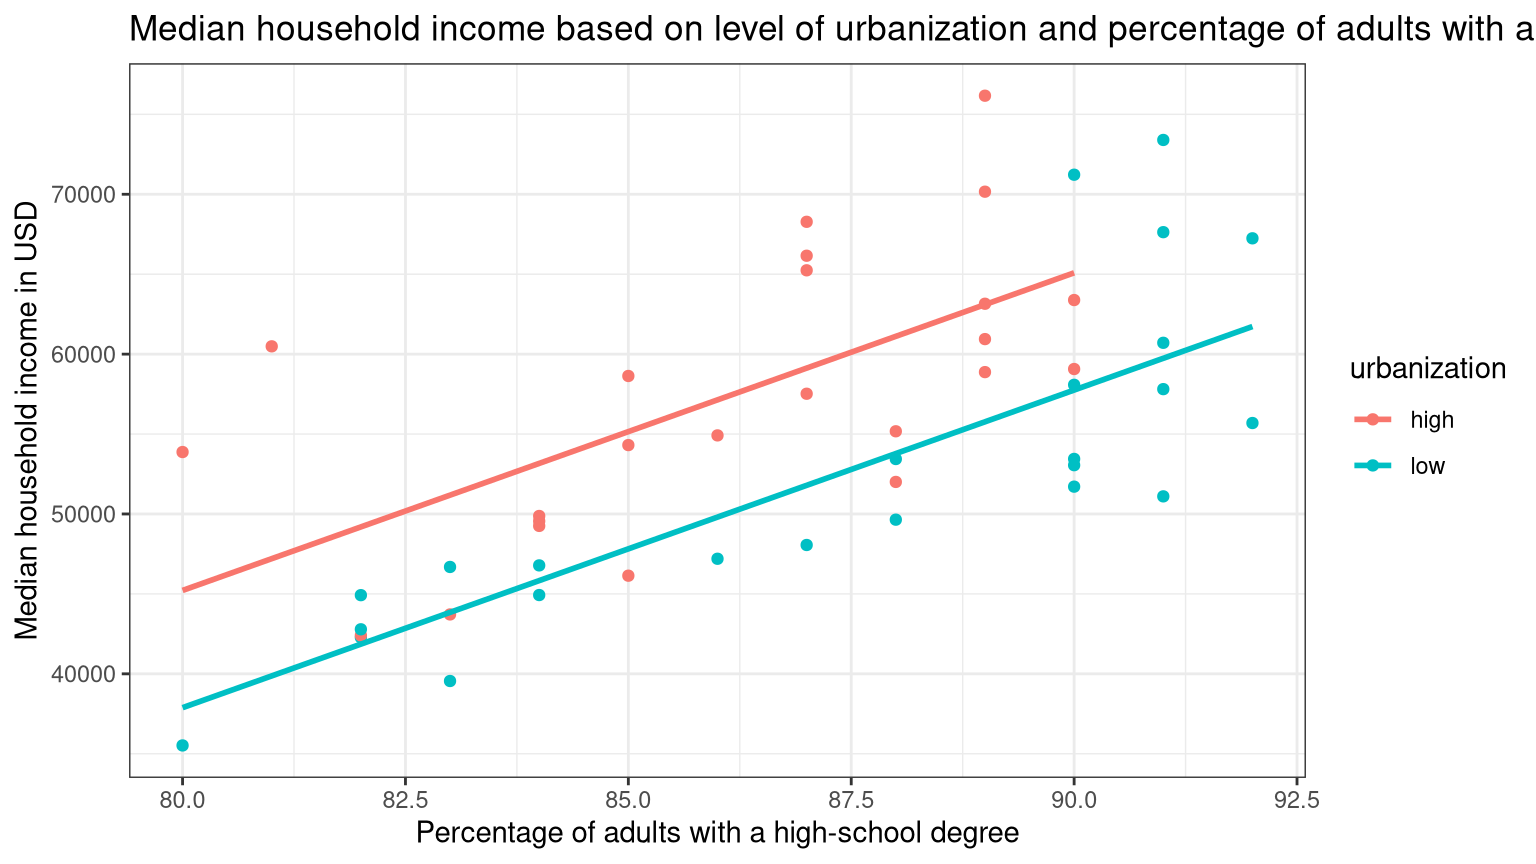
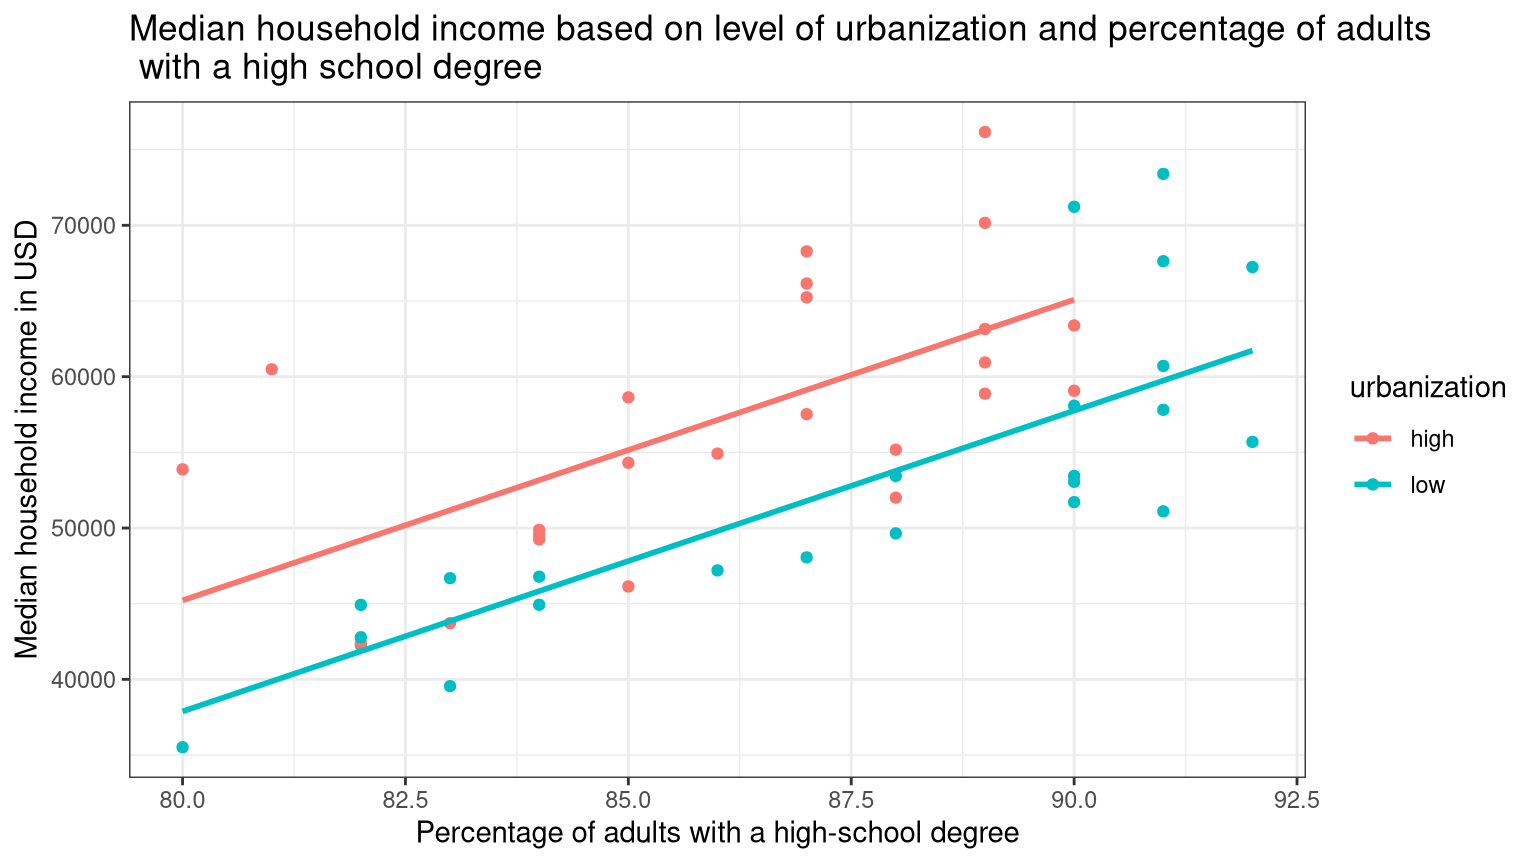
09-20 assignment completed

diff --git a/PS06_source.html b/PS06_source.html
@@ -135,7 +135,7 @@ window.Quarto = {
     <div>
     <div class="quarto-title-meta-heading">Published</div>
     <div class="quarto-title-meta-contents">
-      <p class="date">Last modified on September 20, 2026 17:11:52 Eastern Daylight Time</p>
+      <p class="date">Last modified on September 20, 2026 22:25:53 Eastern Daylight Time</p>
     </div>
   </div>
   
@@ -608,7 +608,7 @@ Figure&nbsp;1: Median household income versus percent of adults with high-school
 <span id="cb11-4"><a href="#cb11-4" aria-hidden="true" tabindex="-1"></a>  <span class="fu">theme_bw</span>() <span class="sc">+</span> </span>
 <span id="cb11-5"><a href="#cb11-5" aria-hidden="true" tabindex="-1"></a>  <span class="fu">labs</span>(<span class="at">x =</span> <span class="st">"Percentage of adults with a high-school degree"</span>,</span>
 <span id="cb11-6"><a href="#cb11-6" aria-hidden="true" tabindex="-1"></a>       <span class="at">y =</span> <span class="st">"Median household income in USD"</span>, </span>
-<span id="cb11-7"><a href="#cb11-7" aria-hidden="true" tabindex="-1"></a>       <span class="at">title =</span> <span class="st">"Median household income based on level of urbanization and percentage of adults with a high school degree"</span>)</span></code></pre></div><button title="Copy to Clipboard" class="code-copy-button"><i class="bi"></i></button></div>
+<span id="cb11-7"><a href="#cb11-7" aria-hidden="true" tabindex="-1"></a>       <span class="at">title =</span> <span class="st">"Median household income based on level of urbanization and percentage of adults </span><span class="sc">\n</span><span class="st"> with a high school degree"</span>)</span></code></pre></div><button title="Copy to Clipboard" class="code-copy-button"><i class="bi"></i></button></div>
 <div class="cell-output-display">
 <div class="quarto-figure quarto-figure-center">
 <figure class="figure">
@@ -747,7 +747,7 @@ Figure&nbsp;1: Median household income versus percent of adults with high-school
 <div id="callout-23" class="callout-23-contents callout-collapse collapse show">
 <div class="callout-body-container callout-body">
 <ul>
-<li>Based on the regression table output median household income is on average $7,333.33 higher in states with “high” urbanization in comparison to states with “low” urbanization.</li>
+<li>Based on the regression table output, median household income is on average $7,333.33 higher in states with “high” urbanization in comparison to states with “low” urbanization.</li>
 </ul>
 </div>
 </div>
@@ -1030,7 +1030,21 @@ Figure&nbsp;2: Vole in the wild
 <div id="callout-38" class="callout-38-contents callout-collapse collapse show">
 <div class="callout-body-container callout-body">
 <div class="cell" data-layout-align="center">
-<div class="code-copy-outer-scaffold"><div class="sourceCode cell-code" id="cb17"><pre class="sourceCode r code-with-copy"><code class="sourceCode r"><span id="cb17-1"><a href="#cb17-1" aria-hidden="true" tabindex="-1"></a><span class="co"># Type your code and comments inside the code chunk</span></span></code></pre></div><button title="Copy to Clipboard" class="code-copy-button"><i class="bi"></i></button></div>
+<div class="code-copy-outer-scaffold"><div class="sourceCode cell-code" id="cb17"><pre class="sourceCode r code-with-copy"><code class="sourceCode r"><span id="cb17-1"><a href="#cb17-1" aria-hidden="true" tabindex="-1"></a>voles_mod <span class="ot">&lt;-</span> <span class="fu">lm</span>(voles <span class="sc">~</span> veg <span class="sc">+</span> soil, vole_trapping)</span>
+<span id="cb17-2"><a href="#cb17-2" aria-hidden="true" tabindex="-1"></a><span class="fu">ggplot</span>(vole_trapping, <span class="fu">aes</span>(<span class="at">x =</span> veg, <span class="at">y =</span> voles, <span class="at">color =</span> soil)) <span class="sc">+</span> </span>
+<span id="cb17-3"><a href="#cb17-3" aria-hidden="true" tabindex="-1"></a>  <span class="fu">geom_point</span>() <span class="sc">+</span> </span>
+<span id="cb17-4"><a href="#cb17-4" aria-hidden="true" tabindex="-1"></a>  <span class="fu">geom_parallel_slopes</span>(<span class="at">se =</span> <span class="cn">FALSE</span>) <span class="sc">+</span> </span>
+<span id="cb17-5"><a href="#cb17-5" aria-hidden="true" tabindex="-1"></a>  <span class="fu">theme_bw</span>() <span class="sc">+</span> </span>
+<span id="cb17-6"><a href="#cb17-6" aria-hidden="true" tabindex="-1"></a>  <span class="fu">labs</span>(<span class="at">x =</span> <span class="st">"Percentage of site covered with vegetation"</span>,</span>
+<span id="cb17-7"><a href="#cb17-7" aria-hidden="true" tabindex="-1"></a>       <span class="at">y =</span> <span class="st">"Number of voles"</span>, </span>
+<span id="cb17-8"><a href="#cb17-8" aria-hidden="true" tabindex="-1"></a>       <span class="at">title =</span> <span class="st">"Number of voles depending on percentage of site covered with vegetation and soil type"</span>)</span></code></pre></div><button title="Copy to Clipboard" class="code-copy-button"><i class="bi"></i></button></div>
+<div class="cell-output-display">
+<div class="quarto-figure quarto-figure-center">
+<figure class="figure">
+<p><img src="PS06_source_files/figure-html/unnamed-chunk-16-1.png" class="img-fluid quarto-figure quarto-figure-center figure-img" width="768"></p>
+</figure>
+</div>
+</div>
 </div>
 </div>
 </div>
@@ -1061,7 +1075,7 @@ Figure&nbsp;2: Vole in the wild
 <div id="callout-40" class="callout-40-contents callout-collapse collapse show">
 <div class="callout-body-container callout-body">
 <ul>
-<li>Delete this and put your text answer here.</li>
+<li>I would recommend to protect sites with a high vegetation cover as there is a positive relationship between percentage of site covered with vegetation and number of voles. Hence, protecting areas with high vegetation cover is expected to benefit a larger number of voles.</li>
 </ul>
 </div>
 </div>
@@ -1092,10 +1106,14 @@ Figure&nbsp;2: Vole in the wild
 <div id="callout-42" class="callout-42-contents callout-collapse collapse show">
 <div class="callout-body-container callout-body">
 <ul>
-<li>Delete this and put your text answer here.</li>
+<li>In order to support a population of about 30 voles, a conservation organization has to maintain roughly 57% cover of vegetation at the site.</li>
 </ul>
 <div class="cell" data-layout-align="center">
-<div class="code-copy-outer-scaffold"><div class="sourceCode cell-code" id="cb18"><pre class="sourceCode r code-with-copy"><code class="sourceCode r"><span id="cb18-1"><a href="#cb18-1" aria-hidden="true" tabindex="-1"></a><span class="co"># Type your code and comments inside the code chunk</span></span></code></pre></div><button title="Copy to Clipboard" class="code-copy-button"><i class="bi"></i></button></div>
+<div class="code-copy-outer-scaffold"><div class="sourceCode cell-code" id="cb18"><pre class="sourceCode r code-with-copy"><code class="sourceCode r"><span id="cb18-1"><a href="#cb18-1" aria-hidden="true" tabindex="-1"></a><span class="fu">predict</span>(voles_mod, <span class="at">newdata =</span> <span class="fu">tibble</span>(<span class="at">soil =</span> <span class="st">"dry"</span>, <span class="at">veg =</span> <span class="dv">57</span>))</span></code></pre></div><button title="Copy to Clipboard" class="code-copy-button"><i class="bi"></i></button></div>
+<div class="cell-output cell-output-stdout">
+<pre><code>       1 
+30.23096 </code></pre>
+</div>
 </div>
 </div>
 </div>
@@ -1126,10 +1144,10 @@ Figure&nbsp;2: Vole in the wild
 <div id="callout-44" class="callout-44-contents callout-collapse collapse show">
 <div class="callout-body-container callout-body">
 <div class="cell" data-layout-align="center">
-<div class="code-copy-outer-scaffold"><div class="sourceCode cell-code" id="cb19"><pre class="sourceCode r code-with-copy"><code class="sourceCode r"><span id="cb19-1"><a href="#cb19-1" aria-hidden="true" tabindex="-1"></a><span class="co"># Type your code and comments inside the code chunk</span></span></code></pre></div><button title="Copy to Clipboard" class="code-copy-button"><i class="bi"></i></button></div>
+<div class="code-copy-outer-scaffold"><div class="sourceCode cell-code" id="cb20"><pre class="sourceCode r code-with-copy"><code class="sourceCode r"><span id="cb20-1"><a href="#cb20-1" aria-hidden="true" tabindex="-1"></a>voles_pred <span class="ot">&lt;-</span> <span class="fu">predict</span>(voles_mod, <span class="at">newdata =</span> <span class="fu">tibble</span>(<span class="at">soil =</span> <span class="st">"moist"</span>, <span class="at">veg =</span> <span class="dv">40</span>))</span></code></pre></div><button title="Copy to Clipboard" class="code-copy-button"><i class="bi"></i></button></div>
 </div>
 <ul>
-<li>Delete this and put your text answer here.</li>
+<li>Using the regression equation, the expected vole population a site with moist soil and 40% vegetation cover can support is 35 voles.</li>
 </ul>
 </div>
 </div>
@@ -1178,7 +1196,7 @@ Tip
 </div>
 </div>
 <div class="cell" data-layout-align="center">
-<div class="code-copy-outer-scaffold"><div class="sourceCode cell-code" id="cb20"><pre class="sourceCode r code-with-copy"><code class="sourceCode r"><span id="cb20-1"><a href="#cb20-1" aria-hidden="true" tabindex="-1"></a><span class="fu">sessionInfo</span>()</span></code></pre></div><button title="Copy to Clipboard" class="code-copy-button"><i class="bi"></i></button></div>
+<div class="code-copy-outer-scaffold"><div class="sourceCode cell-code" id="cb21"><pre class="sourceCode r code-with-copy"><code class="sourceCode r"><span id="cb21-1"><a href="#cb21-1" aria-hidden="true" tabindex="-1"></a><span class="fu">sessionInfo</span>()</span></code></pre></div><button title="Copy to Clipboard" class="code-copy-button"><i class="bi"></i></button></div>
 <div class="cell-output cell-output-stdout">
 <pre><code>R version 4.6.1 (2026-06-24)
 Platform: x86_64-redhat-linux-gnu
